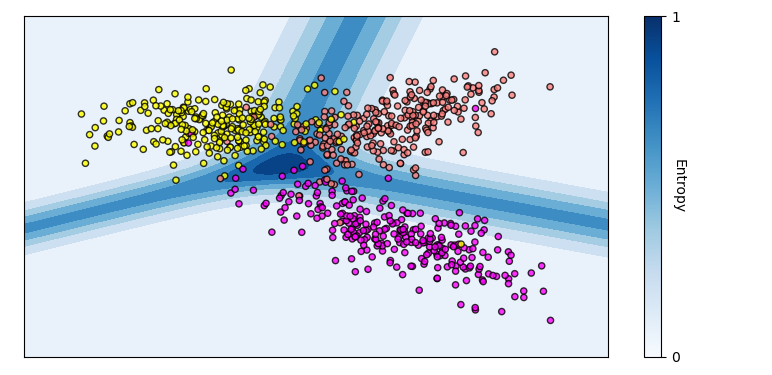
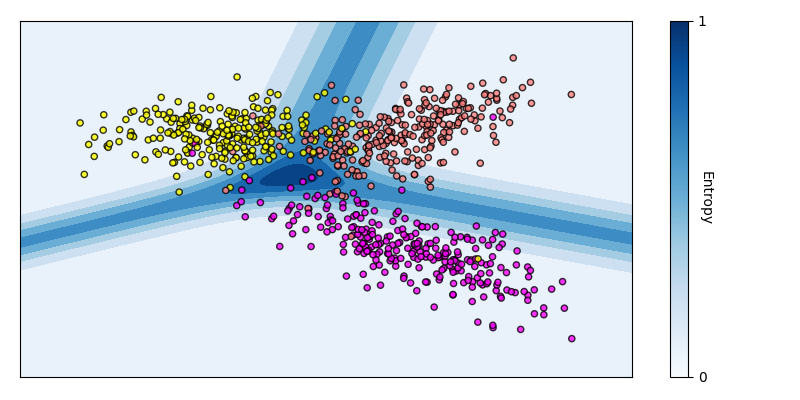
Update plots

diff --git a/plot_data.py b/plot_data.py
@@ -12,6 +12,8 @@ import src.datasets as datasets
 def parse_args():
     parser = argparse.ArgumentParser()
     parser.add_argument("filepath", type=str)
+    parser.add_argument("-u", type=float, default=1.0,
+                        help="Total uncertainty")
     return parser.parse_args()
 
 
@@ -21,12 +23,13 @@ def main(args):
     y = np.array([exs[0]["preferred_y"].item() for exs in data.examples])
     lr = LogisticRegression().fit(X, y)
 
-    fig, ax = plt.subplots()
+    fig, ax = plt.subplots(figsize=(8, 4))
     X0, X1 = X[:, 0], X[:, 1]
     xx, yy = make_meshgrid(X0, X1)
 
     Xmesh = np.c_[xx.ravel(), yy.ravel()]
     probs = lr.predict_proba(Xmesh)
+    probs = recalibrate_probs(probs, args.u)
     n_classes = probs.shape[-1]
     ent = stats.entropy(probs, axis=1)
     ent_max = np.log(n_classes)
@@ -45,6 +48,13 @@ def main(args):
     cbar.ax.set_ylabel("Entropy", rotation=270)
     fig.tight_layout()
     plt.show()
+
+
+def recalibrate_probs(probs, gamma):
+    exponent = gamma * np.log(probs)
+    num = np.exp(exponent)
+    denom = np.exp(exponent).sum(axis=1)[:, np.newaxis]
+    return num / denom
 
 
 def make_meshgrid(x, y, h=0.02):
